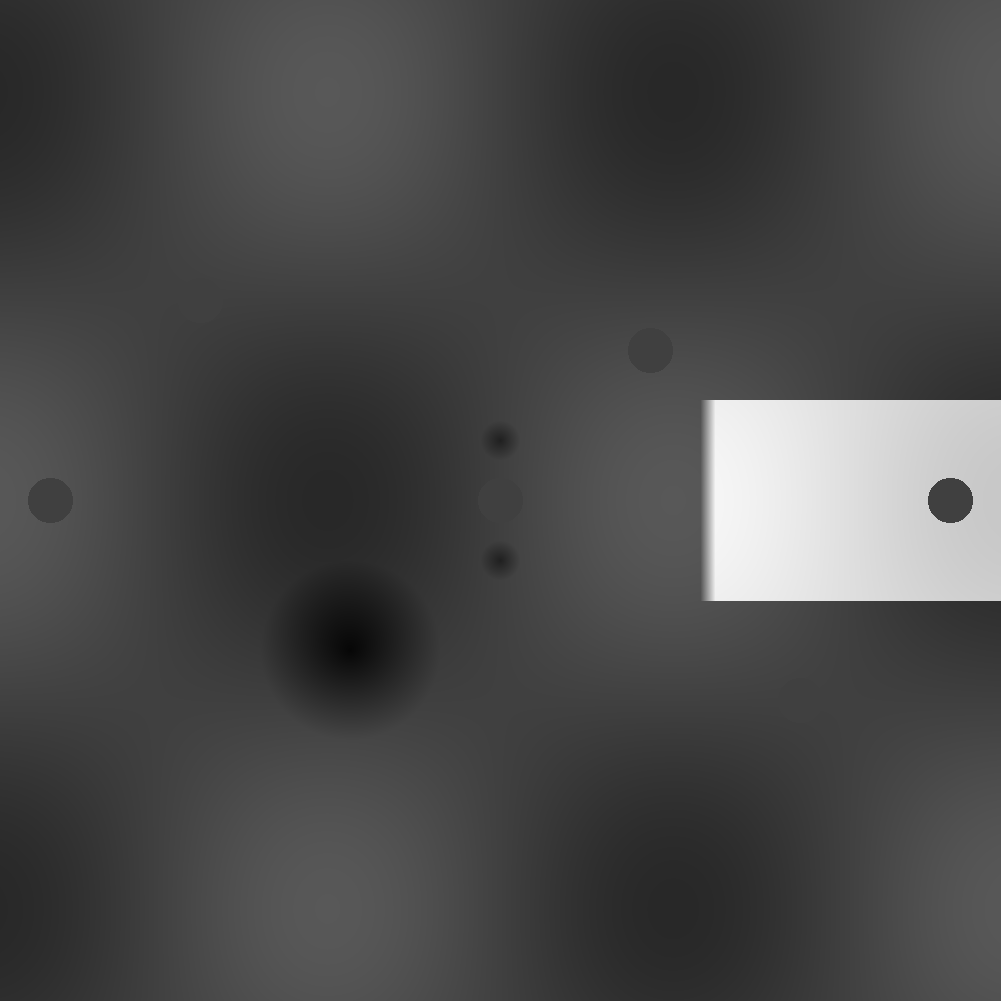
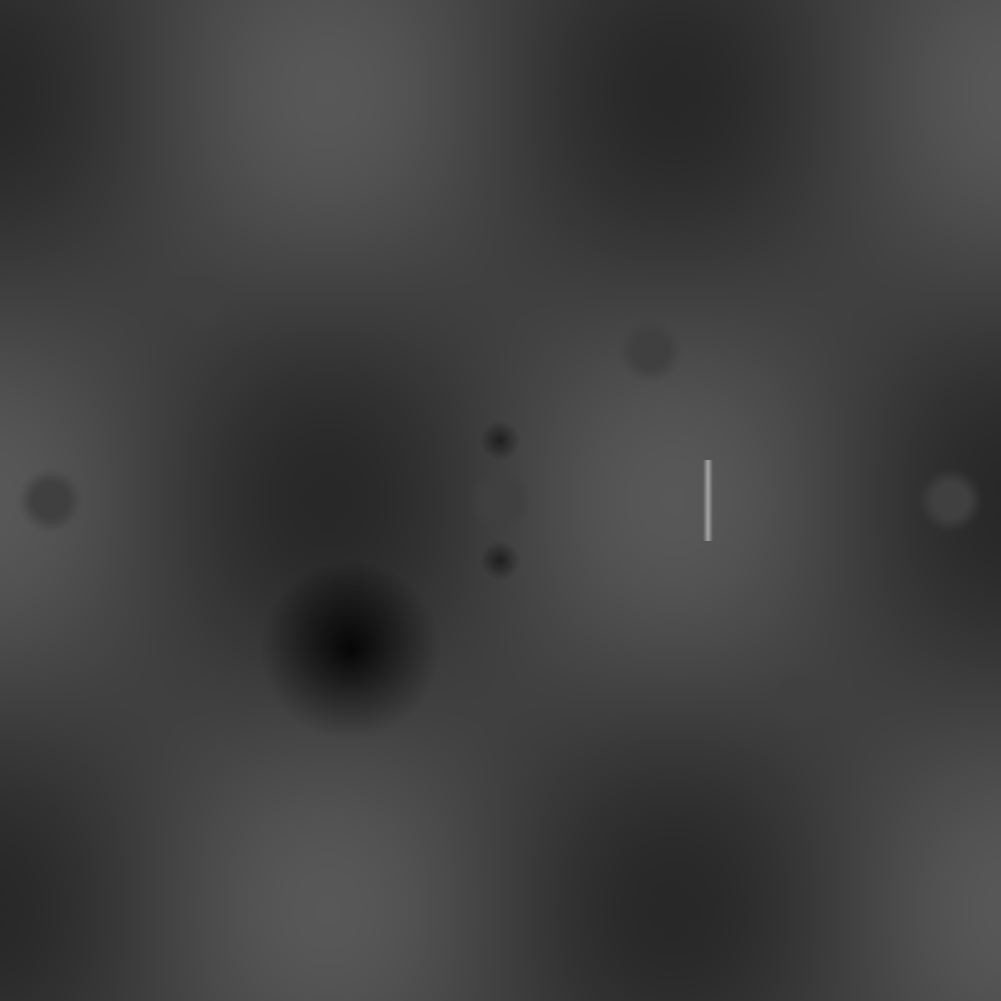
fix(m15): smooth base/point pad blends + localized too-steep ridge (was: hard pads + half-map mesa froze the bot fleet at spawn)
The hard radius-45 flat pads created a 0->~5 m step whose central-difference slope sat at/above the
50 deg walk limit, ringing every spawn with an unwalkable wall; and the cliff made x>430 a 40 m mesa
over the entire east half, trapping team-1's base. Bots commanded movement but resolve_movement
clipped them at the pad edge -> the 128-bot gate ran 780s with 0 shots/0 captures. Now: smoothstep
pad blends (edge slope ~5-7 deg) + a localized triangular ridge (still >50 deg for the slope-block
test, z-flanked so bots route around). Regenerated PNG + map via the tool.

Changed region(s): [[0.6813, 0.4026, 1.0, 0.6194]]

diff --git a/tools/map_gen.py b/tools/map_gen.py
@@ -274,21 +274,33 @@ def gen_proving_grounds_heightmap(world_half=1000.0, spacing=2.0):
     # valley -> demonstrates a capture point on low ground; B is excluded from the flats below)
     dvb = np.hypot(X + 300.0, Z - 300.0)
     hm += np.where(dvb < 180.0, -12.0 * (1.0 - dvb / 180.0), 0.0)
-    # a deliberately too-steep cliff wall x=400..430 (~40 m over 30 m run, >50 deg -> unwalkable)
-    in_z = (Z >= -200.0) & (Z <= 200.0)
-    hm += np.where((X >= 400.0) & (X <= 430.0) & in_z, 40.0 * (X - 400.0) / 30.0, 0.0)
-    hm += np.where((X > 430.0) & in_z, 40.0, 0.0)         # flat mesa on top of the cliff
+    # a deliberately too-steep RIDGE wall centred at x=415, z in +/-80: a localized triangular ridge
+    # rising ~20 m over a 10 m run (gradient 2.0 -> ~63 deg, well past MAX_WALKABLE_SLOPE_DEG=50) then
+    # back down — a wall to test slope-blocking (walk/jump/drive rejected), NOT a mesa. Deliberately
+    # localized (z flanks are open) so bots route AROUND it: it must not partition the map or wall a
+    # base. (An earlier version made x>430 a 40 m mesa over the whole east half, trapping team-1's base
+    # behind a 40 m cliff — the bot fleet froze at spawn. This ridge keeps the too-steep test feature
+    # without that partition.)
+    in_z = (Z >= -80.0) & (Z <= 80.0)
+    ridge = np.clip(1.0 - np.abs(X - 415.0) / 10.0, 0.0, 1.0)   # triangular 0->1->0 over x=405..425
+    hm += np.where(in_z, 20.0 * ridge, 0.0)
     # tunnel-entrance ramps sculpted down to portals at (0,-120) and (0,120)
     for pz in (-120.0, 120.0):
         dp = np.hypot(X, Z - pz)
         hm += np.where(dp < 40.0, -8.0 * (1.0 - dp / 40.0), 0.0)
-    # pin flat lots under bases/points so the render reads intentional. Radius ~45 m. Point B
-    # (-300,300) is intentionally OMITTED so its valley basin survives (a flat-0 pad in a -12 m
-    # basin would create an ugly wall at the pad edge). Buildings get their own runtime pad in
+    # SMOOTHLY blend flat lots under bases/points into the surrounding grade. A HARD radius-45 pad set
+    # to 0 created a 0->~5 m step at the pad edge whose central-difference slope sat right at/above the
+    # 50 deg walk limit, ringing every spawn with an unwalkable wall (the fleet froze at base). Instead:
+    # flat within R0, then a smoothstep blend to natural terrain over BLEND m (max edge slope ~5-7 deg).
+    # Point B (-300,300) is OMITTED so its valley basin survives; buildings get their own runtime pad in
     # Terrain.load_for_map, snapped to local grade.
+    R0, BLEND = 30.0, 40.0
     flats = [(-900, 0), (900, 0), (-600, -400), (0, 0), (300, -300), (600, 400)]
     for fx, fz in flats:
-        hm[np.hypot(X - fx, Z - fz) < 45.0] = 0.0
+        d = np.hypot(X - fx, Z - fz)
+        t = np.clip((d - R0) / BLEND, 0.0, 1.0)
+        w = 1.0 - (t * t * (3.0 - 2.0 * t))     # smoothstep: w=1 (flat) inside R0 -> 0 (natural) at R0+BLEND
+        hm = hm * (1.0 - w)                      # inside: hm->0; outside the blend band: unchanged
     height_min, height_scale = -16.0, 64.0
     px = np.clip(np.round((hm - height_min) / height_scale * 255.0), 0, 255).astype(np.uint8)
     return px, n, height_min, height_scale
